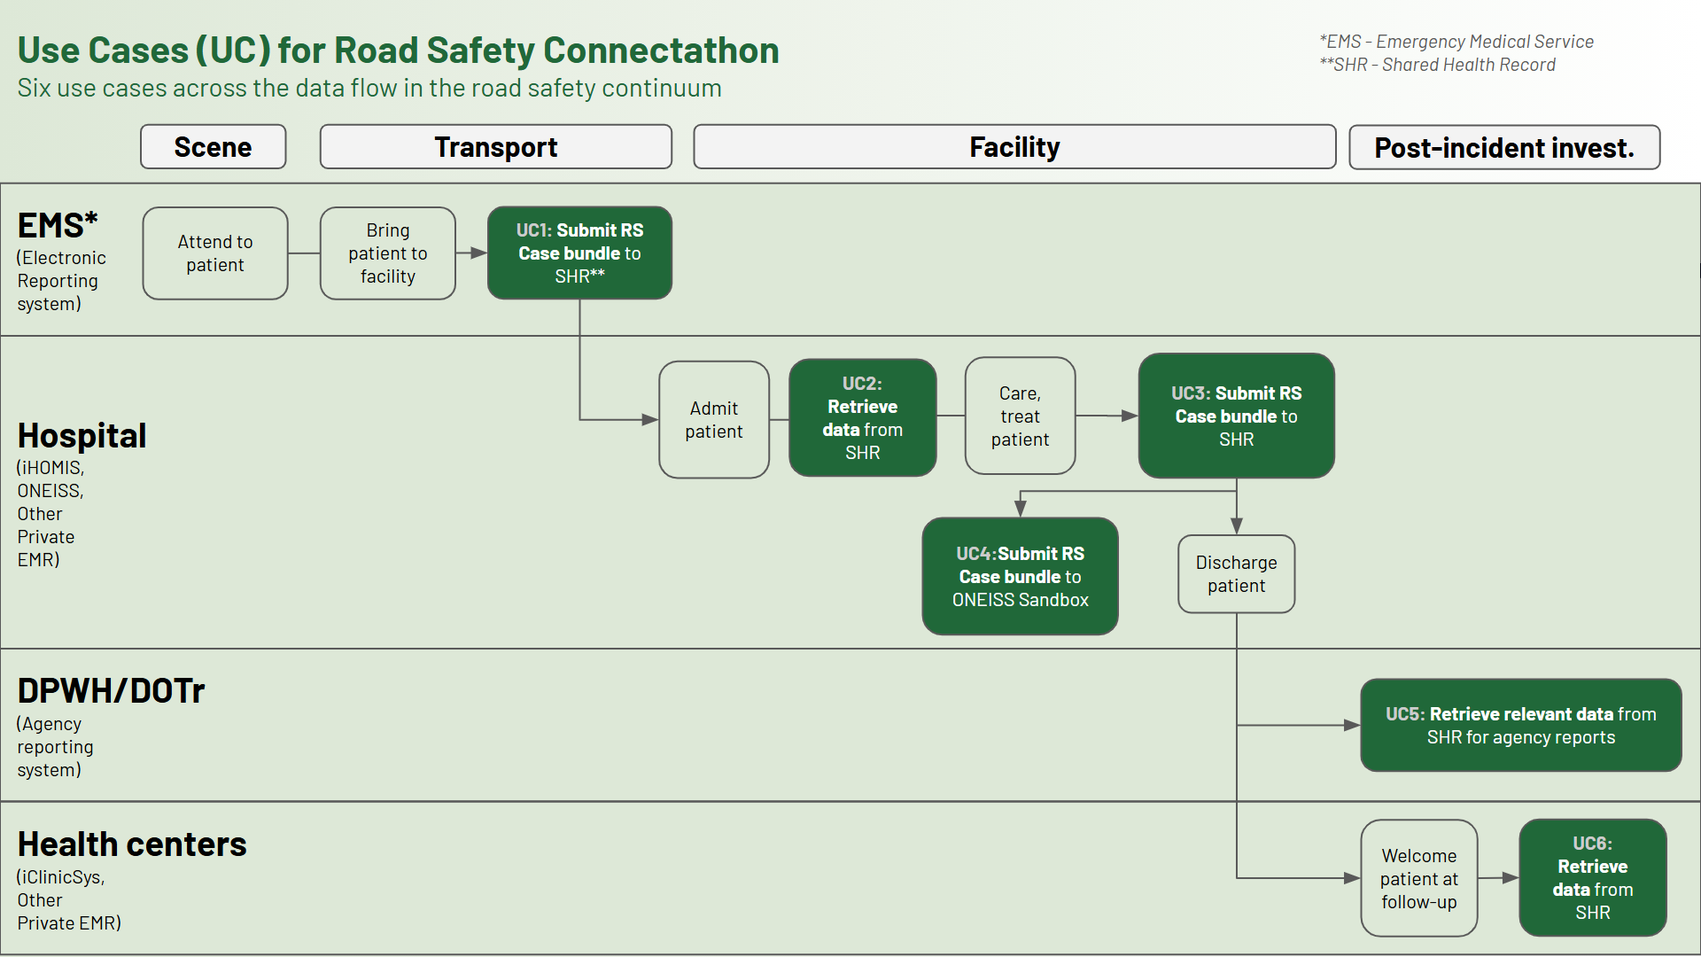
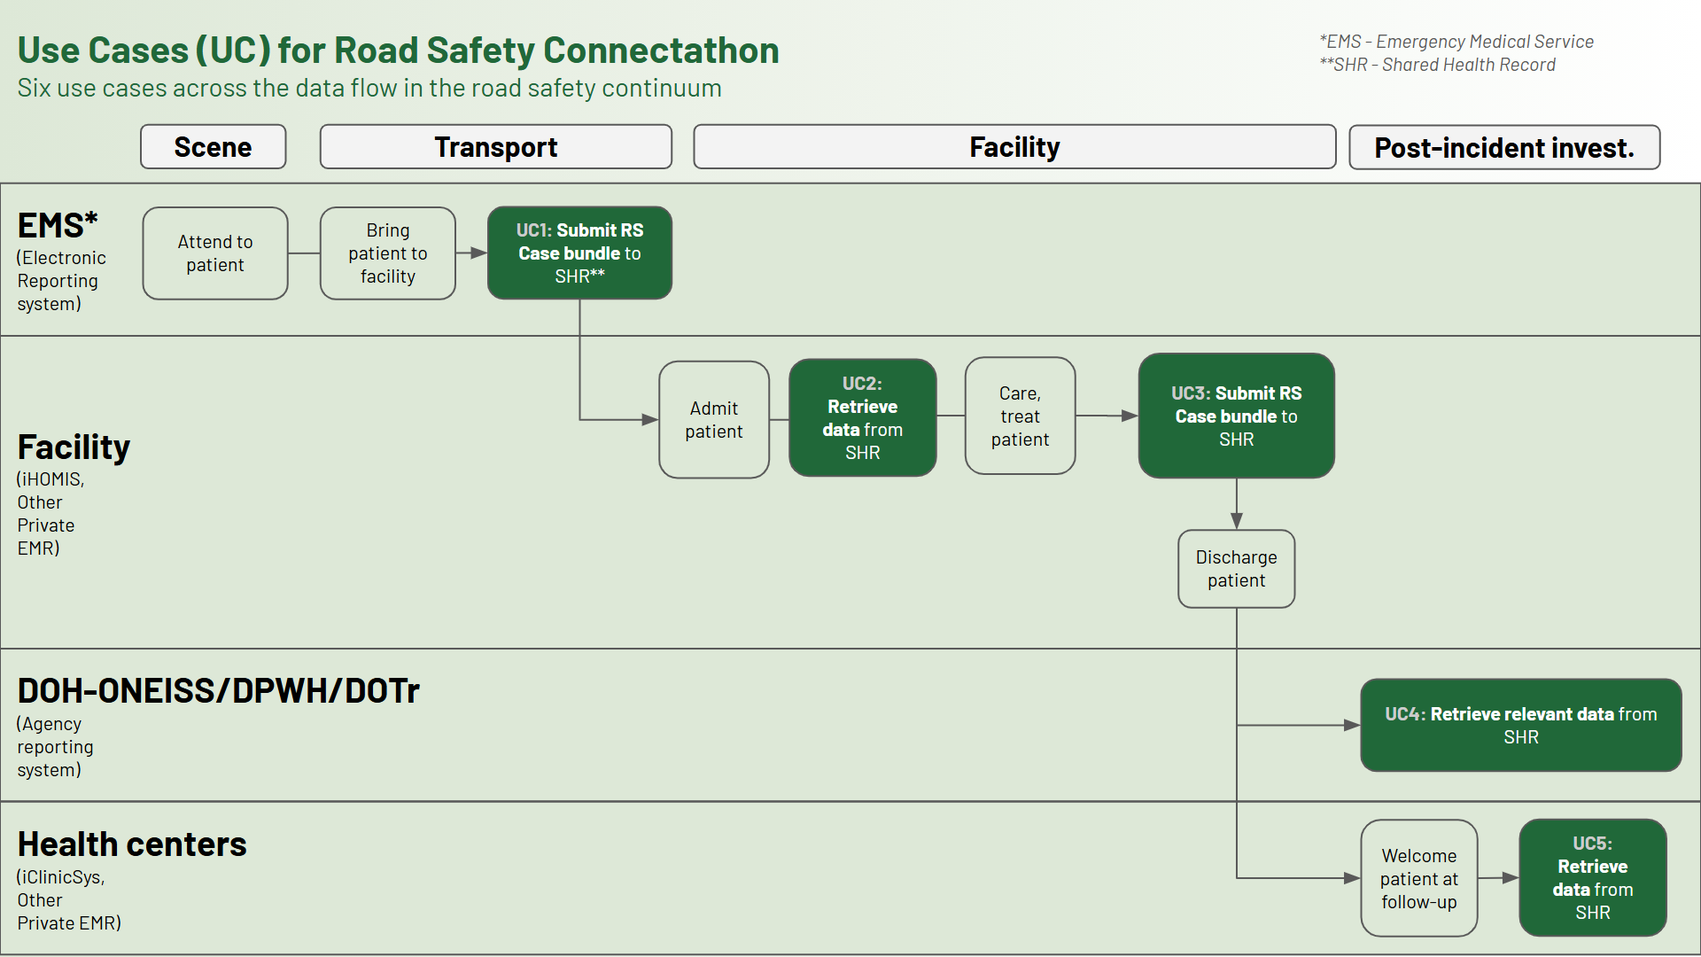
Updated main readme content and finalized UC1 and UC3

diff --git a/use-case-2.md b/use-case-2.md
@@ -1,17 +1,18 @@
 # Use Case #2
 
-Use Case #2 will focus on 
+Use Case #2 
 
 The PH Road Safety FHIR® Connectathon 2025 will use the **draft** [PH RS FHIR Implementation Guide](https://build.fhir.org/ig/UPM-NTHC/PH-RoadSafetyIG/) with references pointing to the **draft** [PH Core FHIR Implementation Guide](https://build.fhir.org/ig/UP-Manila-SILab/ph-core/index.html).
 
 > [!CAUTION]
 > **The PH Road Safety FHIR IG and PH Core FHIR IG are made available for this track in initial draft forms with limited resources - The IGs are not suitable for production use or advanced testing.**
 
-## FHIR Server available for testing
+## Servers available for testing
 
- Version | Server | Endpoint
-|-------------|---------|-------------|
-FHIR R4 | FHIRLab |https://cdr.fhirlab.net/fhir 
+Server |  Version | Name | Endpoint
+|-------|-------|------|---------|
+HAPI FHIR Server|FHIR R4 | FHIRLab | https://cdr.fhirlab.net/fhir 
+Terminology Server|FHIR R4 | Ontoserver | https://tx.fhirlab.net/fhir 
 
 Note: FHIRLab is an open interoperability sandbox. FHIR server in FHIRLab will remain accessible for testing and on-going learning activities post connectathon.
 
@@ -22,29 +23,28 @@ The tools below allow you to perform experimentation immediately and interact wi
 - [Postman Collection](../postman-collection/) 
 - [FHIR validator](https://validator.fhirlab.net)
 
-## Activity 1: Utilize the Terminology Server and Retrieve Value Set Codes
-
+## Activity 2: Retrieve EMS FHIR Resources from the Shared Health Record (Use Case #2)
 | Step | Activity                                       | Notes                                                                 | 
 |------|------------------------------------------------|-----------------------------------------------------------------------|
-| 1    | Review Immunization FHIR IG Value Sets         | Official URL of Value Sets can be found on the [Immunization FHIR IG Artifacts](https://build.fhir.org/ig/UP-Manila-SILab/immunizationfhirig/artifacts.html).                       |
-| 2    | Setup access to test FHIR server               | Refer to the environment under the [Postman Collection](../postman-collection) folder. |
-| 3    | Get `Administrative Gender` Value Set           | This is a required Value Set in FHIR which can be found on the [PH Core Patient](https://build.fhir.org/ig/UP-Manila-SILab/ph-core/StructureDefinition-ph-core-patient.html) resource.|
-| 4    | Get `Vaccine Brand Name` Value Set             | $expand can be used to display Value Set codes.|
-| 5    | Get `Vaccine Generic Name` Value Set           | $expand can be used to display Value Set codes.|
-| 6    | Get `Action Taken` Value Set                    | $expand can be used to display Value Set codes.|
-| 7    | Get `Action Reason` Value Set                   | $expand can be used to display Value Set codes.|
-| 8    | Get `Vaccination Encounter Type` Value Set      | $expand can be used to display Value Set codes.|
-
+| 1    | Review Road Safety FHIR IG Resources           | Refer to Resource Profiles found on the [Road Safety FHIR IG Artifacts](https://github.com/UP-Manila-SILab/PH-RoadSafetyIG).|
+| 2    | Recall the EMS bundle resource `IDs`           | Patient logical ID was created after the bundle resource was successfully posted.|
+| 3    | Setup access to test FHIR server               | Refer to the environment under the [Postman Collection](../postman-collection) folder.|
+| 4    | Get EMS bundle `Patient` resource data         | In postman, use the syntax GET `{{fhir}}/Patient/ID`                          |
+| 5    | Get EMS bundle `Encounter` resource data       | In postman, use the syntax GET `{{fhir}}/Encounter/ID`                        |
+| 6    | Get $everything from the patient records       | In postman, use the syntax GET `{{fhir}}/Patient/ID/$everything`              | 
 
 
 ### Use Case Success
-Server returns HTTP 200 OK with full Value Set response.
+- Server returns HTTP `200 OK`. 
+- GET `Patient` and `Encounter`: Transaction response shows details about the patient and encounter.
+- GET $everything using `Patient` ID: Transaction response shows all FHIR resources submitted related to patient such as `Observation`, `Patient`, `Encounter`... 
 
 ### Sequence Diagram
 ![alt text](<FHIR PH Immunization Sequence Diagram - UC1,5.png>)
 
-### Acceptance Criteria
-For a more detailed overview of the acceptance criteria of Use Cases (Tracks) #1 and #5, please refer to the [Acceptance Criteria Google Sheet UC#1,5](https://docs.google.com/spreadsheets/d/1OF5Jh_beGjB9nB7WSfQ_H10fC_Z-4T_4dBGndu6mgoQ/edit?gid=507922979#gid=507922979)
+For a more detailed overview of the acceptance criteria of Use Case #2, please refer to the PH RS Acceptance Criteria Google Sheet.
+
+👉 [Click for details on the Acceptance Criteria of Use Case #2](https://docs.google.com/spreadsheets/d/1YOYHxm9gU2V4fiAoLIVBWDrbZdsakTPHWAWg--DKrsA/)
 
 ## Assumptions
 
@@ -52,7 +52,6 @@ Assumption | Details
 |----------|-------------|
 Non FHIR National Codes | For [Philippine Standard Geographic Code (PSGC)](https://psa.gov.ph/classification/psgc) and [National Health Facility Registry (NHFR)](https://nhfr.doh.gov.ph/VActivefacilitiesList), please refer to respective websites for more details on getting their standard codes.
 Storage of Codes | It is recommended for this event for your application to store your copy of the PSGC and NHFR codes.
-Facility Code | For this Connectathon, please assign your own organization a Facility Code that will be used throughout the event.
 
 ## Supplementary guides for local testing
 

diff --git a/use-case-1.md b/use-case-1.md
@@ -7,11 +7,12 @@ The PH Road Safety FHIR® Connectathon 2025 will use the **draft** [PH Road Safe
 > [!CAUTION]
 > **The PH Road Safety FHIR IG and PH Core FHIR IG are made available for this track in initial draft forms with limited resources - The IGs are not suitable for production use or advanced testing.**
 
-## FHIR Server available for testing
+## Servers available for testing
 
- Version | Server | Endpoint
-|-------------|---------|-------------|
-FHIR R4 | FHIRLab |https://cdr.fhirlab.net/fhir 
+Server |  Version | Name | Endpoint
+|-------|-------|------|---------|
+HAPI FHIR Server|FHIR R4 | FHIRLab | https://cdr.fhirlab.net/fhir 
+Terminology Server|FHIR R4 | Ontoserver | https://tx.fhirlab.net/fhir 
 
 Note: FHIRLab is an open interoperability sandbox. FHIR server in FHIRLab will remain accessible for testing and on-going learning activities post connectathon.
 
@@ -22,24 +23,35 @@ The tools below allow you to perform experimentation immediately and interact wi
 - [PH Road Safety Postman Collection](../ph-road-safety-postman-collection/) 
 - [FHIR validator](https://validator.fhirlab.net)
 
-## Activity 1: Validate and submit a FHIR Bundle resource to the Shared Health Record (Use Case #1)
+## Activity 1: Validate and submit an EMS FHIR Bundle to the Shared Health Record (Use Case #1).
 | Step | Activity                                       | Notes                                                                 | 
 |------|------------------------------------------------|-----------------------------------------------------------------------|
 | 1    | Review Road Safety FHIR IG Resources           | Refer to Resource Profiles found on the [Road Safety FHIR IG Artifacts](https://github.com/UP-Manila-SILab/PH-RoadSafetyIG).|
-| 2    | Setup access to test FHIR server               | Refer to the provided environment under the [Postman Collection](../postman-collection) folder. |
-| 3    | Create a Resource `Bundle` for an individual patient| A bundle is a container for a collection of resources. Use provided examples.|
-| 4    | `$validate` the Resource Bundle                |                                                                  |
-| 5    | Submit `Bundle` to Server                      |                                                                       |
-
+| 2    | Open Postman and import the postman collection provided. | Refer to the collection under the [Postman Collection](./postman-collection) folder.
+| 3    | Setup access to test FHIR server               | Refer to the provided environment under the [Postman Collection](./postman-collection) folder. |
+| 4    | Create a Resource `Bundle` for an individual patient| A bundle is a container for a collection of resources. Use provided examples. |
+| 5    | `$validate` the Resource Bundle                | Resources can be validated through Postman (tx endpoint) or through hosted FHIR validators. | 
+| 6    | Submit `Bundle` to the SHR                    | Use the FHIRLab `HAPI FHIR` Endpoint https://cdr.fhirlab.net/fhir |
+| 7    | Take note of the Resource IDs generated in the transaction window. | These IDs will later be retrieved in succeeding use cases.|
 
 ### Use Case Success
-Server returns HTTP 200 OK with full Value Set response.
+- Server returns HTTP `200 OK`. 
+- Transaction response also shows that resources were `201 Created` (with generated resource IDs). 
 
 ### Sequence Diagram
-![UC1](<FHIR PH Immunization Sequence Diagram - UC1,5.png>)
+```mermaid
+sequenceDiagram
+EMS->>FHIR Server : POST Patient Data Bundle <br> (Use ONLY mock data)
+activate FHIR Server
+FHIR Server-->>EMS: 200 OK + 201 Created <br> (Resource IDs generated)
+deactivate FHIR Server
+end
+```
 
 ### Acceptance Criteria
-For a more detailed overview of the acceptance criteria of Use Cases (Tracks) #1 and #5, please refer to the [Acceptance Criteria Google Sheet UC#1,5](https://docs.google.com/spreadsheets/d/1OF5Jh_beGjB9nB7WSfQ_H10fC_Z-4T_4dBGndu6mgoQ/edit?gid=507922979#gid=507922979)
+For a more detailed overview of the acceptance criteria of Use Case #1, please refer to the PH RS Acceptance Criteria Google Sheet.
+
+👉 [Click for details on the Acceptance Criteria of Use Case #1](https://docs.google.com/spreadsheets/d/1YOYHxm9gU2V4fiAoLIVBWDrbZdsakTPHWAWg--DKrsA/)
 
 ## Assumptions
 
@@ -47,7 +59,6 @@ Assumption | Details
 |----------|-------------|
 Non FHIR National Codes | For [Philippine Standard Geographic Code (PSGC)](https://psa.gov.ph/classification/psgc) and [National Health Facility Registry (NHFR)](https://nhfr.doh.gov.ph/VActivefacilitiesList), please refer to respective websites for more details on getting their standard codes.
 Storage of Codes | It is recommended for this event for your application to store your copy of the PSGC and NHFR codes.
-Facility Code | For this Connectathon, please assign your own organization a Facility Code that will be used throughout the event.
 
 ## Supplementary guides for local testing
 

diff --git a/use-case-3.md b/use-case-3.md
@@ -1,17 +1,18 @@
-# Use Case #3 and #4
+# Use Case #3
 
-Use Case #3 and #4 will focus on 
+Use Case #3
 
 The PH Road Safety FHIR® Connectathon 2025 will use the **draft** [PH RS FHIR Implementation Guide](https://build.fhir.org/ig/UPM-NTHC/PH-RoadSafetyIG/) with references pointing to the **draft** [PH Core FHIR Implementation Guide](https://build.fhir.org/ig/UP-Manila-SILab/ph-core/index.html).
 
 > [!CAUTION]
 > **The PH Road Safety FHIR IG and PH Core FHIR IG are made available for this track in initial draft forms with limited resources - The IGs are not suitable for production use or advanced testing.**
 
-## FHIR Server available for testing
+## Servers available for testing
 
- Version | Server | Endpoint
-|-------------|---------|-------------|
-FHIR R4 | FHIRLab |https://cdr.fhirlab.net/fhir 
+Server |  Version | Name | Endpoint
+|-------|-------|------|---------|
+HAPI FHIR Server|FHIR R4 | FHIRLab | https://cdr.fhirlab.net/fhir 
+Terminology Server|FHIR R4 | Ontoserver | https://tx.fhirlab.net/fhir 
 
 Note: FHIRLab is an open interoperability sandbox. FHIR server in FHIRLab will remain accessible for testing and on-going learning activities post connectathon.
 
@@ -22,25 +23,34 @@ The tools below allow you to perform experimentation immediately and interact wi
 - [Postman Collection](../postman-collection/) 
 - [FHIR validator](https://validator.fhirlab.net)
 
-## Activity 1: Utilize the Terminology Server and Retrieve Value Set Codes
-
+## Activity 3: Validate and submit a Hospital Facility FHIR Bundle to the Shared Health Record (Use Case #3).
 | Step | Activity                                       | Notes                                                                 | 
 |------|------------------------------------------------|-----------------------------------------------------------------------|
-| 1    | Review Immunization FHIR IG Resources               | Refer to Resource Profiles found on the [Immunization FHIR IG Artifacts](https://build.fhir.org/ig/UP-Manila-SILab/immunizationfhirig/artifacts.html). |
-| 2    | Setup access to test FHIR server                    | Refer to the environment under the [Postman Collection](../postman-collection) folder.  |
-| 3    | Create a Resource `Bundle` for an individual patient| A bundle is a container for a collection of resources. Use provided examples.|
-| 4    | `$validate` the Resource Bundle                     |                                                                       |
-| 5    | Submit `Bundle` to FHIR Server                      |                                                                       |
+| 1    | Review Road Safety FHIR IG Resources           | Refer to Resource Profiles found on the [Road Safety FHIR IG Artifacts](https://github.com/UP-Manila-SILab/PH-RoadSafetyIG).|
+| 2    | Setup access to test FHIR server               | Refer to the provided environment under the [Postman Collection](../postman-collection) folder. |
+| 3    | Create a Resource `Bundle` for an individual patient| A bundle is a container for a collection of resources. Use provided examples. |
+| 4    | `$validate` the Resource Bundle                | Resources can be validated through Postman (tx endpoint) or through hosted FHIR validators. | 
+| 5    | Submit `Bundle` to the SHR                    | Use the FHIRLab `HAPI FHIR` Endpoint https://cdr.fhirlab.net/fhir |
 
 
 ### Use Case Success
-Server returns HTTP 200 OK with full Value Set response.
+- Server returns HTTP `200 OK`. 
+- Transaction response also shows that resources were `201 Created` (with generated resource IDs). 
 
 ### Sequence Diagram
-![alt text](<FHIR PH Immunization Sequence Diagram - UC1,5.png>)
+```mermaid
+sequenceDiagram
+Hospital Facility->>FHIR Server : POST Patient Data Bundle <br> (Use ONLY mock data)
+activate FHIR Server
+FHIR Server-->>Hospital Facility: 200 OK + 201 Created <br> (Resource IDs generated)
+deactivate FHIR Server
+end
+```
 
 ### Acceptance Criteria
-For a more detailed overview of the acceptance criteria of Use Cases (Tracks) #1 and #5, please refer to the [Acceptance Criteria Google Sheet UC#1,5](https://docs.google.com/spreadsheets/d/1OF5Jh_beGjB9nB7WSfQ_H10fC_Z-4T_4dBGndu6mgoQ/edit?gid=507922979#gid=507922979)
+For a more detailed overview of the acceptance criteria of Use Case #3, please refer to the PH RS Acceptance Criteria Google Sheet.
+
+👉 [Click for details on the Acceptance Criteria of Use Case #3](https://docs.google.com/spreadsheets/d/1YOYHxm9gU2V4fiAoLIVBWDrbZdsakTPHWAWg--DKrsA/)
 
 ## Assumptions
 

diff --git a/use-case-4.md b/use-case-4.md
@@ -1,17 +1,18 @@
-# Use Case #3 and #4
+# Use Case #5 and #6
 
-Use Case #3 and #4 will focus on 
+Use Case #5 and #6 will focus on 
 
 The PH Road Safety FHIR® Connectathon 2025 will use the **draft** [PH RS FHIR Implementation Guide](https://build.fhir.org/ig/UPM-NTHC/PH-RoadSafetyIG/) with references pointing to the **draft** [PH Core FHIR Implementation Guide](https://build.fhir.org/ig/UP-Manila-SILab/ph-core/index.html).
 
 > [!CAUTION]
 > **The PH Road Safety FHIR IG and PH Core FHIR IG are made available for this track in initial draft forms with limited resources - The IGs are not suitable for production use or advanced testing.**
 
-## FHIR Server available for testing
+## Servers available for testing
 
- Version | Server | Endpoint
-|-------------|---------|-------------|
-FHIR R4 | FHIRLab |https://cdr.fhirlab.net/fhir 
+Server |  Version | Name | Endpoint
+|-------|-------|------|---------|
+HAPI FHIR Server|FHIR R4 | FHIRLab | https://cdr.fhirlab.net/fhir 
+Terminology Server|FHIR R4 | Ontoserver | https://tx.fhirlab.net/fhir 
 
 Note: FHIRLab is an open interoperability sandbox. FHIR server in FHIRLab will remain accessible for testing and on-going learning activities post connectathon.
 
@@ -44,7 +45,9 @@ Server returns HTTP 200 OK with full Value Set response.
 ![alt text](<FHIR PH Immunization Sequence Diagram - UC1,5.png>)
 
 ### Acceptance Criteria
-For a more detailed overview of the acceptance criteria of Use Cases (Tracks) #1 and #5, please refer to the [Acceptance Criteria Google Sheet UC#1,5](https://docs.google.com/spreadsheets/d/1OF5Jh_beGjB9nB7WSfQ_H10fC_Z-4T_4dBGndu6mgoQ/edit?gid=507922979#gid=507922979)
+For a more detailed overview of the acceptance criteria of Use Case #4, please refer to the PH RS Acceptance Criteria Google Sheet.
+
+👉 [Click for details on the Acceptance Criteria of Use Case #4](https://docs.google.com/spreadsheets/d/1YOYHxm9gU2V4fiAoLIVBWDrbZdsakTPHWAWg--DKrsA/)
 
 ## Assumptions
 
@@ -52,7 +55,6 @@ Assumption | Details
 |----------|-------------|
 Non FHIR National Codes | For [Philippine Standard Geographic Code (PSGC)](https://psa.gov.ph/classification/psgc) and [National Health Facility Registry (NHFR)](https://nhfr.doh.gov.ph/VActivefacilitiesList), please refer to respective websites for more details on getting their standard codes.
 Storage of Codes | It is recommended for this event for your application to store your copy of the PSGC and NHFR codes.
-Facility Code | For this Connectathon, please assign your own organization a Facility Code that will be used throughout the event.
 
 ## Supplementary guides for local testing
 
@@ -60,6 +62,5 @@ Facility Code | For this Connectathon, please assign your own organization a Fac
 - [Uploading FHIR IGs - `UploadFIG`](https://github.com/brianpos/UploadFIG#user-content-running-the-utility)
 - [Uploading Resources - `Postman local app`](https://www.postman.com/downloads/)
 - [Validating Resources - `FHIR validator`](https://confluence.hl7.org/spaces/FHIR/pages/35718580/Using+the+FHIR+Validator)
-
 
 

diff --git a/use-case-5.md b/use-case-5.md
@@ -1,17 +1,18 @@
-# Use Case #5 and #6
+# Use Case #5
 
-Use Case #5 and #6 will focus on 
+Use Case #5
 
 The PH Road Safety FHIR® Connectathon 2025 will use the **draft** [PH RS FHIR Implementation Guide](https://build.fhir.org/ig/UPM-NTHC/PH-RoadSafetyIG/) with references pointing to the **draft** [PH Core FHIR Implementation Guide](https://build.fhir.org/ig/UP-Manila-SILab/ph-core/index.html).
 
 > [!CAUTION]
 > **The PH Road Safety FHIR IG and PH Core FHIR IG are made available for this track in initial draft forms with limited resources - The IGs are not suitable for production use or advanced testing.**
 
-## FHIR Server available for testing
+## Servers available for testing
 
- Version | Server | Endpoint
-|-------------|---------|-------------|
-FHIR R4 | FHIRLab |https://cdr.fhirlab.net/fhir 
+Server |  Version | Name | Endpoint
+|-------|-------|------|---------|
+HAPI FHIR Server|FHIR R4 | FHIRLab | https://cdr.fhirlab.net/fhir 
+Terminology Server|FHIR R4 | Ontoserver | https://tx.fhirlab.net/fhir 
 
 Note: FHIRLab is an open interoperability sandbox. FHIR server in FHIRLab will remain accessible for testing and on-going learning activities post connectathon.
 
@@ -44,7 +45,9 @@ Server returns HTTP 200 OK with full Value Set response.
 ![alt text](<FHIR PH Immunization Sequence Diagram - UC1,5.png>)
 
 ### Acceptance Criteria
-For a more detailed overview of the acceptance criteria of Use Cases (Tracks) #1 and #5, please refer to the [Acceptance Criteria Google Sheet UC#1,5](https://docs.google.com/spreadsheets/d/1OF5Jh_beGjB9nB7WSfQ_H10fC_Z-4T_4dBGndu6mgoQ/edit?gid=507922979#gid=507922979)
+For a more detailed overview of the acceptance criteria of Use Case #5, please refer to the PH RS Acceptance Criteria Google Sheet.
+
+👉 [Click for details on the Acceptance Criteria of Use Case #5](https://docs.google.com/spreadsheets/d/1YOYHxm9gU2V4fiAoLIVBWDrbZdsakTPHWAWg--DKrsA/)
 
 ## Assumptions
 
@@ -52,7 +55,6 @@ Assumption | Details
 |----------|-------------|
 Non FHIR National Codes | For [Philippine Standard Geographic Code (PSGC)](https://psa.gov.ph/classification/psgc) and [National Health Facility Registry (NHFR)](https://nhfr.doh.gov.ph/VActivefacilitiesList), please refer to respective websites for more details on getting their standard codes.
 Storage of Codes | It is recommended for this event for your application to store your copy of the PSGC and NHFR codes.
-Facility Code | For this Connectathon, please assign your own organization a Facility Code that will be used throughout the event.
 
 ## Supplementary guides for local testing
 
@@ -60,5 +62,6 @@ Facility Code | For this Connectathon, please assign your own organization a Fac
 - [Uploading FHIR IGs - `UploadFIG`](https://github.com/brianpos/UploadFIG#user-content-running-the-utility)
 - [Uploading Resources - `Postman local app`](https://www.postman.com/downloads/)
 - [Validating Resources - `FHIR validator`](https://confluence.hl7.org/spaces/FHIR/pages/35718580/Using+the+FHIR+Validator)
+
 
 

diff --git a/README.md b/README.md
@@ -2,7 +2,7 @@
 
 ![PH RS Connectathon Graphic](<graphics/ph-road-safety-connectathon-graphic.png>)
 
-The PH Road Safety Connectathon (17-21 November 2025, Metro Manila) is the final milestone of the SIL-PH project with the Department of Health. This Connectathon is co-organized by DOH and UP NTHC.P
+The PH Road Safety Connectathon (17-21 November 2025, Metro Manila) is the final milestone of the SIL-PH project with the Department of Health. This Connectathon is co-organized by DOH and UP NTHC.
 
 Around 60 participants from government, hospitals, EMS, EMR vendors, and partners will test the first Road Safety Minimum Data Set (MDS) and draft FHIR Implementation Guide through scenario-based simulations. 
  
@@ -48,16 +48,14 @@ The general objective of this activity is to strengthen capacity for digital hea
 | 👉 [Click for track details of Use Case #2](use-case-2.md) | |
 | UC3: Users will submit *RS Case* bundle to SHR. **(POST)** | Facility | Hospital |
 | 👉 [Click for track details of Use Case #3](use-case-3.md) | |
-| UC4: Submit *RS Case* bundle to ONEISS Sandbox. **(POST)** | Facility | Hospital |
+| UC4: Users will retrieve relevant data from SHR for agency reports. **(GET)** | Post-incident investigation | Government agency
 | 👉 [Click for track details of Use Case #4](use-case-4.md) | |
-| UC5: Users will retrieve relevant data from SHR for agency reports. **(GET)** | Post-incident investigation | Government agency
+| UC5: Users will retrieve data from SHR for continuity of care. **(GET)** | Post-incident investigation | Health center
 | 👉 [Click for track details of Use Case #5](use-case-5.md) | |
-| UC6: Users will retrieve data from SHR for continuity of care. **(GET)** | Post-incident investigation | Health center
-| 👉 [Click for track details of Use Case #6](use-case-6.md) | |
 
 ## Postman Collection and Environment
 
-To help participants get started, we have prepared Postman collections, environment, and example data for each Use Case. These include:
+To help participants get started, we have prepared Postman collections, environment, and example data for each use case. These include:
 
 - Expanding valuesets
 - Validating resources
@@ -84,7 +82,8 @@ FHIR R4 | FHIRLab |https://cdr.fhirlab.net/fhir
 - [LOINC](https://loinc.org/)
 
 ### FHIRLab (https://fhirlab.net) 
-- [FHIR Server - `Hapi FHIR`](https://cdr.fhirlab.net/fhir)
+- [FHIR Server - `Hapi FHIR Endpoint`](https://cdr.fhirlab.net/fhir)
+- [Terminology Server - `Ontoserver Endpoint`](https://tx.fhirlab.net/fhir)
 - [Terminology Server - `Ontoserver w/ Shrimp as viewer`](https://ontoserver.csiro.au/shrimp/)
 
 > Note: FHIR® Lab is part of The Strengthening Standards Capability Project (SSCP), co-funded by CSIRO Australia and Australian Government, Department of Foreign Affairs and Trade. 
